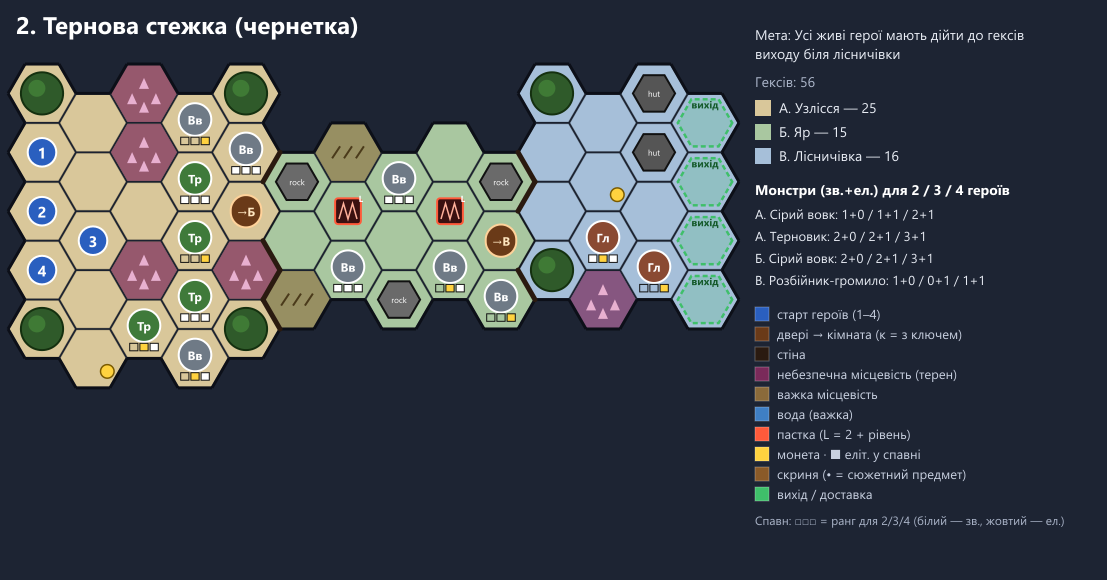
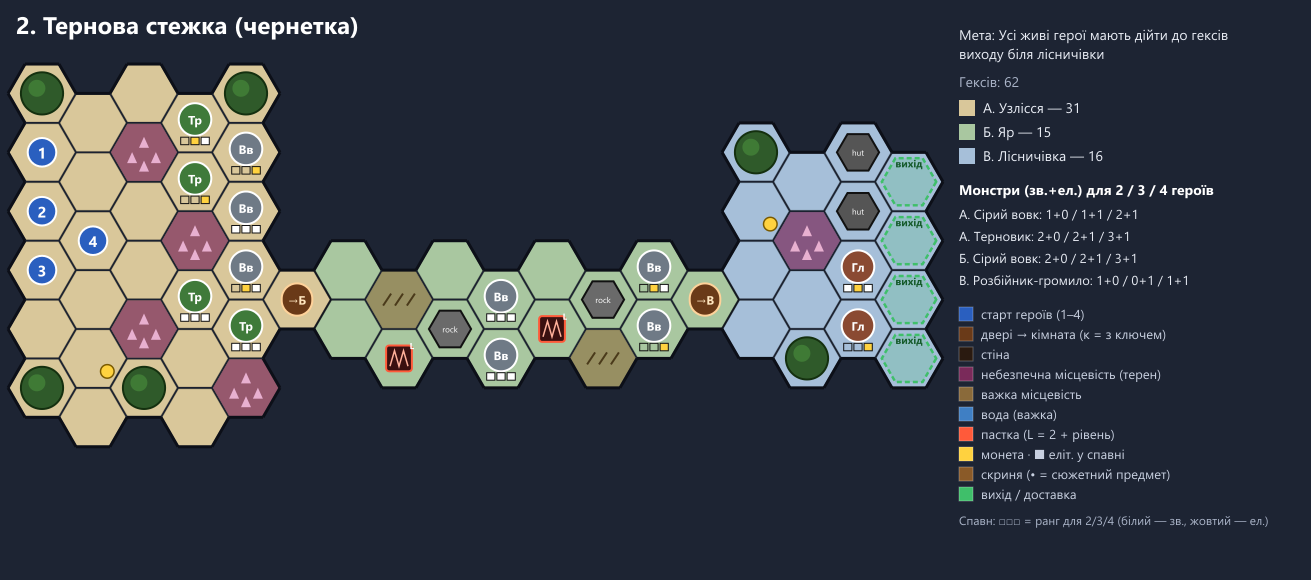
Reshape s1 and s2: rooms of different sizes, straight walls, a left-out strip at every door
s1: a cramped pantry (12 hexes) and a big wine cellar hall (42) with rows of barrels.
s2: a wide glade (30), a narrow ravine corridor two hexes across (14), a small lodge (16).
Rooms are offset-grid rectangles; between rooms one column is left out except the door hex.
Contents, spawn tables, goals and story triggers are kept; only hexes moved.

Tests: s1/s2 hexes in the scenario and objective tests, the s1 UI replay fixtures re-recorded
with the replay bot (the fork one takes the first legal item use), draft bound 60 -> 90 hexes.
Card budget (min rounds / hand / slack): s1 8/20 60%, s2 12/20 40%.

diff --git a/tests/rules/scenarios/s2.test.ts b/tests/rules/scenarios/s2.test.ts
@@ -19,39 +19,39 @@ describe('s2 Тернова стежка', () => {
     let s = clearMonsters(game('s2'));
     place(s, 'hero:warden', [1, 0]);
     expect(tile(s, [2, 0]).terrain).toBe('hazardous');
-    expect(tile(s, [2, -1]).terrain).toBe('hazardous');
+    expect(tile(s, [2, 1]).terrain).toBe('hazardous');
     s = untilTurn(select(s), 'warden');
     const hp = hero(s, 'warden').hp;
     const [, bottom] = selected(s, 'warden');
-    s = playHalf(s, content, 'warden', bottom, 'bottom', [{ path: [[2, 0], [2, -1]] }], true);
+    s = playHalf(s, content, 'warden', bottom, 'bottom', [{ path: [[2, 0], [2, 1]] }], true);
     const hazards = s.log.filter((e) => e.type === 'damaged' && e.source === 'hazard');
     expect(hazards.map((e) => e.type === 'damaged' && e.amount)).toEqual([1, 1]);
     expect(hero(s, 'warden').hp).toBe(hp - 2);
-    expect(hero(s, 'warden').hex).toEqual([2, -1]);
+    expect(hero(s, 'warden').hex).toEqual([2, 1]);
   });
 
   it('the two ravine traps deal 2 + level and are gone afterwards', () => {
     let s = clearMonsters(reveal(game('s2'), 's2.ravine'));
-    expect(tile(s, [6, -1]).trap).toEqual({ damage: 3, conditions: [] });
-    expect(tile(s, [8, -2]).trap).toEqual({ damage: 3, conditions: [] });
-    place(s, 'hero:warden', [5, 0]);
+    expect(tile(s, [7, 1]).trap).toEqual({ damage: 3, conditions: [] });
+    expect(tile(s, [10, -1]).trap).toEqual({ damage: 3, conditions: [] });
+    place(s, 'hero:warden', [6, 1]);
     s = untilTurn(select(s), 'warden');
     const hp = hero(s, 'warden').hp;
     const [, bottom] = selected(s, 'warden');
-    s = playHalf(s, content, 'warden', bottom, 'bottom', [{ path: [[6, -1]] }], true);
+    s = playHalf(s, content, 'warden', bottom, 'bottom', [{ path: [[7, 1]] }], true);
     expect(s.log.some((e) => e.type === 'trapTriggered' && e.damage === 3)).toBe(true);
     expect(hero(s, 'warden').hp).toBe(hp - 3);
-    expect(tile(s, [6, -1]).trap).toBeUndefined();
+    expect(tile(s, [7, 1]).trap).toBeUndefined();
   });
 
   it('is won at the end of the round when every living hero stands on an exit hex', () => {
     const start = clearMonsters(reveal(game('s2'), 's2.ravine', 's2.lodge'));
-    place(start, 'hero:warden', [13, -5]);
-    place(start, 'hero:herbalist', [13, -4]);
+    place(start, 'hero:warden', [17, -6]);
+    place(start, 'hero:herbalist', [17, -5]);
     expect(finishRound(select(structuredClone(start)), content).phase).toBe('won');
 
     const short = structuredClone(start);
-    place(short, 'hero:herbalist', [12, -4]);
+    place(short, 'hero:herbalist', [15, -4]);
     const t = finishRound(select(short), content);
     expect(t.phase).toBe('selectCards');
     expect(t.round).toBe(2);
@@ -59,7 +59,7 @@ describe('s2 Тернова стежка', () => {
 
   it('an exhausted hero does not have to reach the exit', () => {
     const s = clearMonsters(reveal(game('s2'), 's2.ravine', 's2.lodge'));
-    place(s, 'hero:warden', [13, -3]);
+    place(s, 'hero:warden', [17, -4]);
     hero(s, 'herbalist').exhausted = true;
     hero(s, 'herbalist').hp = 0;
     s.pending = { kind: 'selectCards', heroIds: ['hero:warden'] };

diff --git a/tests/data/scenarios-maps.test.ts b/tests/data/scenarios-maps.test.ts
@@ -92,11 +92,11 @@ describe('drafts s2–s5 follow the design doc', () => {
     });
 
   for (const id of ['s2', 's3', 's4', 's5'])
-    it(`${id}: is a compact draft of 30–60 hexes`, () => {
+    it(`${id}: is a draft of 30–90 hexes`, () => {
       const s = scenarios[id]!;
       expect(s.draft).toBe(true);
       expect(hexCount(s)).toBeGreaterThanOrEqual(30);
-      expect(hexCount(s)).toBeLessThanOrEqual(60);
+      expect(hexCount(s)).toBeLessThanOrEqual(90);
       expect(s.startHexes).toHaveLength(4);
     });
 
@@ -224,6 +224,8 @@ describe('map editor model and checks', () => {
 
   it('seals room borders except at doors, which is what the cross-checks want', () => {
     const s = clone(scenarios['s1']!);
+    // Fill the left-out strip beside the door: the pantry now touches the cellar with no wall.
+    s.rooms[0]!.hexes.push([3, 0]);
     for (const room of s.rooms) delete room.walls;
     expect(checkScenario(s, content).length).toBeGreaterThan(0);
     expect(sealRooms(s)).toBeGreaterThan(0);
@@ -237,8 +239,8 @@ describe('map editor model and checks', () => {
     expect(sightLine(pair, [0, 0], [1, 0])).toBe(true);
     toggleWall(pair, [0, 0], [1, 0]);
     expect(sightLine(pair, [0, 0], [1, 0])).toBe(false);
-    // s1: open floor inside the pantry, the room wall to the cellar blocks.
-    expect(sightLine(scenarios['s1']!, [0, 1], [4, -1])).toBe(true);
-    expect(sightLine(scenarios['s1']!, [0, 2], [0, 3])).toBe(false);
+    // s1: open floor inside the pantry; the left-out strip between pantry and cellar blocks.
+    expect(sightLine(scenarios['s1']!, [0, 0], [2, 2])).toBe(true);
+    expect(sightLine(scenarios['s1']!, [0, 0], [4, -2])).toBe(false);
   });
 });

diff --git a/tests/rules/objectives/zones.test.ts b/tests/rules/objectives/zones.test.ts
@@ -5,7 +5,7 @@ import { checkScenario } from '../../data/crossref';
 import { clearMonsters, content, game, place, reveal } from '../scenarios/helpers';
 import { select, withS2 } from './helpers';
 
-const EXIT: [number, number][] = [[13, -6], [13, -5], [13, -4], [13, -3]];
+const EXIT: [number, number][] = [[17, -7], [17, -6], [17, -5], [17, -4]];
 
 describe('zones', () => {
   it('the s1–s5 goals keep their inline hexes and resolve through goalZone', () => {
@@ -15,15 +15,15 @@ describe('zones', () => {
   });
 
   it('reachExit can name a zone instead of listing hexes', () => {
-    const c = withS2({ zones: [{ id: 'gate', hexes: [[13, -5], [12, -4]] }], goal: { type: 'reachExit', zone: 'gate' } });
+    const c = withS2({ zones: [{ id: 'gate', hexes: [[17, -6], [15, -4]] }], goal: { type: 'reachExit', zone: 'gate' } });
     expect(zoneHexes(c.scenarios['s2']!, 'gate')).toHaveLength(2);
     const start = clearMonsters(reveal(game('s2'), 's2.ravine', 's2.lodge'));
-    place(start, 'hero:warden', [13, -5]);
-    place(start, 'hero:herbalist', [12, -4]);
+    place(start, 'hero:warden', [17, -6]);
+    place(start, 'hero:herbalist', [15, -4]);
     expect(objectiveStatus(c, start)).toMatchObject({ goal: 'reachExit', done: 2, of: 2 });
     expect(finishRound(select(structuredClone(start), c), c).phase).toBe('won');
     // The old inline exit hex is not part of the zone.
-    place(start, 'hero:herbalist', [13, -4]);
+    place(start, 'hero:herbalist', [17, -5]);
     expect(finishRound(select(start, c), c).phase).toBe('selectCards');
   });
 

diff --git a/tests/rules/objectives/secondary.test.ts b/tests/rules/objectives/secondary.test.ts
@@ -8,8 +8,8 @@ import { select, withS2 } from './helpers';
 /** s2 with both heroes on the exit and no monsters: won at the end of round 1. */
 function atExit(): GameState {
   const s = clearMonsters(reveal(game('s2'), 's2.ravine', 's2.lodge'));
-  place(s, 'hero:warden', [13, -5]);
-  place(s, 'hero:herbalist', [13, -4]);
+  place(s, 'hero:warden', [17, -6]);
+  place(s, 'hero:herbalist', [17, -5]);
   return s;
 }
 
@@ -43,7 +43,7 @@ describe('secondary goals', () => {
 
   it('the status counts heroes at the exit; scenarios without secondary goals pay nothing extra', () => {
     const s = atExit();
-    place(s, 'hero:herbalist', [12, -4]);
+    place(s, 'hero:herbalist', [15, -4]);
     expect(objectiveStatus(content, s)).toEqual({ goal: 'reachExit', done: 1, of: 2, secondary: [] });
     expect(secondaryGold(content, s)).toBe(0);
   });

diff --git a/tests/data/load.test.ts b/tests/data/load.test.ts
@@ -83,13 +83,13 @@ describe('monsters', () => {
 describe('scenario 1', () => {
   const s1 = content.scenarios['s1'];
 
-  it('is a consistent map of 25–40 hexes', () => {
+  it('is a consistent map of 25–60 hexes', () => {
     expect(s1).toBeDefined();
     if (!s1) return;
     expect(checkScenario(s1, content)).toEqual([]);
     const total = s1.rooms.reduce((n, r) => n + r.hexes.length, 0);
     expect(total).toBeGreaterThanOrEqual(25);
-    expect(total).toBeLessThanOrEqual(40);
+    expect(total).toBeLessThanOrEqual(60);
     expect(s1.goal).toEqual({ type: 'killAll' });
     expect(s1.reward.goldEach).toBe(10);
   });

diff --git a/tests/app/game.test.ts b/tests/app/game.test.ts
@@ -116,7 +116,7 @@ describe('GameController', () => {
     const g = GameController.start(setup(), players, null, content);
     g.setIntents('hero:warden', ['attack', 'early']);
     expect(g.intentsOf('hero:warden')).toEqual(['attack', 'early']);
-    for (const a of baseWin.actions.slice(0, 14) as Action[]) expect(g.act(a).ok).toBe(true);
+    for (const a of baseWin.actions.slice(0, 16) as Action[]) expect(g.act(a).ok).toBe(true);
     expect(g.state.round).toBe(2);
     expect(g.intentsOf('hero:warden')).toEqual([]);
   });

diff --git a/tests/render/environment.test.ts b/tests/render/environment.test.ts
@@ -178,7 +178,7 @@ describe('showcase cellar (s1)', () => {
     expect(ring.some((p) => (p.y ?? 0) > 0)).toBe(true);
     expect(new Set(ring.map((p) => p.piece)).size).toBeGreaterThanOrEqual(4);
     const looks = assignObstacleLooks(content.scenarios.s1!, def);
-    expect(looks.size).toBe(7);
+    expect(looks.size).toBe(5);
     expect(new Set(looks.values()).size).toBeGreaterThanOrEqual(4);
     for (const [k, look] of looks) {
       const [q, r] = k.split(',').map(Number) as [number, number];

diff --git a/tests/rules/objectives/rounds.test.ts b/tests/rules/objectives/rounds.test.ts
@@ -49,8 +49,8 @@ describe('round goals and limits', () => {
     expect(late.log.at(-1)).toEqual({ type: 'scenarioLost' });
 
     const early = clearMonsters(reveal(game('s2'), 's2.ravine', 's2.lodge'));
-    place(early, 'hero:warden', [13, -5]);
-    place(early, 'hero:herbalist', [13, -4]);
+    place(early, 'hero:warden', [17, -6]);
+    place(early, 'hero:herbalist', [17, -5]);
     expect(finishRound(select(early, c), c).phase).toBe('won');
   });
 

diff --git a/tests/data/crossref.test.ts b/tests/data/crossref.test.ts
@@ -69,7 +69,8 @@ describe('scenario cross references', () => {
 
   it('flags rooms that are open to each other', () => {
     const s = s1();
-    if (s.rooms[0]) s.rooms[0].walls = [];
+    // Fill the left-out strip beside the door: the pantry now touches the cellar with no wall.
+    if (s.rooms[0]) s.rooms[0].hexes.push([3, 0]);
     expect(checkScenario(s, content).join('\n')).toMatch(/open to each other/);
   });
 
